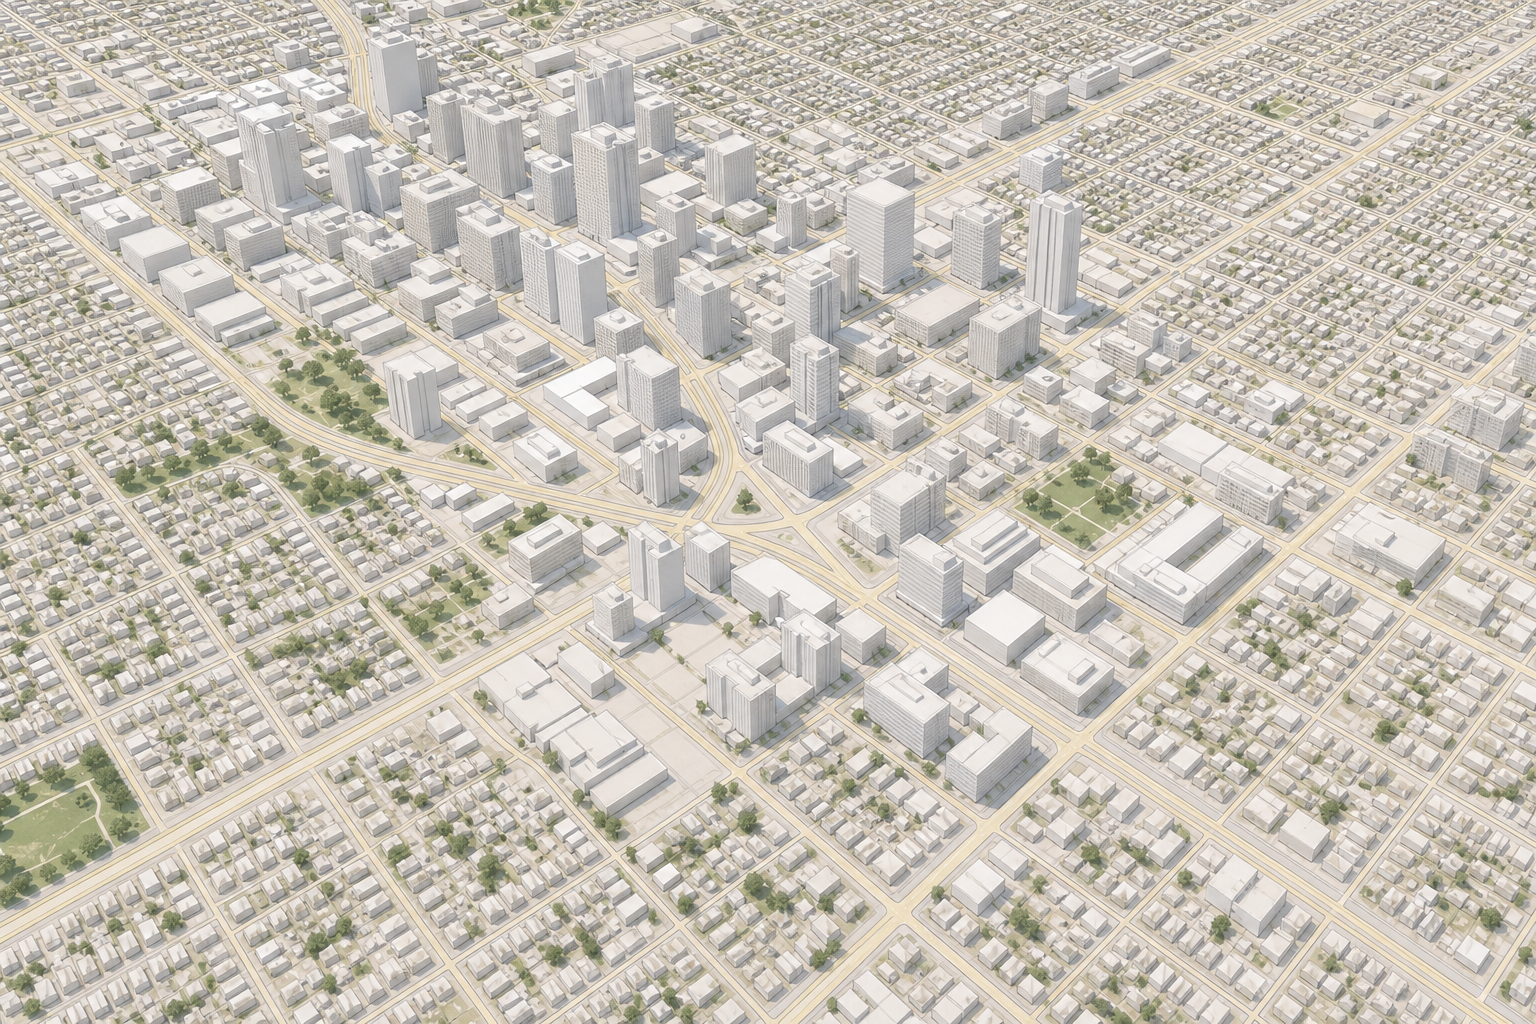
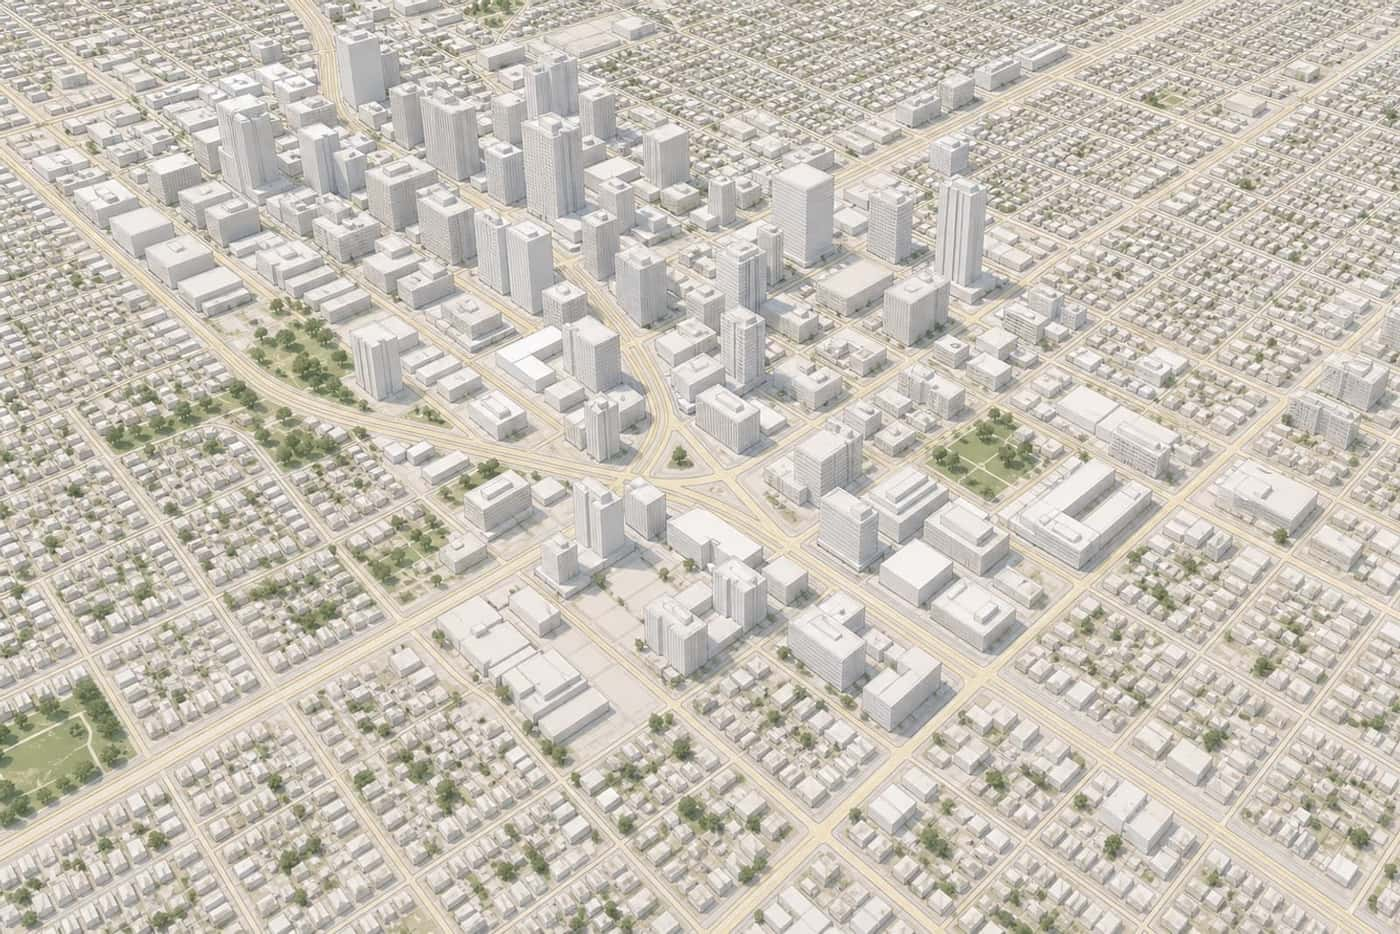
Add Vercel SPA config, page metadata, and optimized landing images
- vercel.json: SPA rewrite to index.html, immutable caching for hashed
  assets, no-cache for index.html, and baseline security headers (FE-1)
- Fix 'FreshFoward' title typo and add meta description, theme-color,
  favicon, apple-touch-icon, and Open Graph/Twitter tags (FE-8, FE-9)
- Compress how-it-works-map.jpg 3.8MB -> 179KB and mission-section.jpg
  346KB -> 186KB (+165KB webp served via <picture>); add lazy loading,
  async decoding, and explicit dimensions to prevent layout shift (FE-4)
- Delete 2.1MB of unreferenced landing illustration PNGs (FE-5)

diff --git a/src/pages/Landing.tsx b/src/pages/Landing.tsx
@@ -89,7 +89,7 @@ const footerBusinessLinks = [
 type SplitSectionProps = {
   title: string
   body: string[]
-  image: { src: string; alt: string }
+  image: { src: string; webpSrc?: string; alt: string; width?: number; height?: number }
   reverse?: boolean
   className?: string
   cta?: { label: string; to: string; variant?: 'primary' | 'outline' }
@@ -112,11 +112,18 @@ function SplitSection({
           }`}
         >
           <div className="w-full">
-            <img
-              src={image.src}
-              alt={image.alt}
-              className="aspect-[5/4] w-full object-cover sm:min-h-[20rem] lg:min-h-[28rem]"
-            />
+            <picture>
+              {image.webpSrc && <source srcSet={image.webpSrc} type="image/webp" />}
+              <img
+                src={image.src}
+                alt={image.alt}
+                loading="lazy"
+                decoding="async"
+                width={image.width}
+                height={image.height}
+                className="aspect-[5/4] w-full object-cover sm:min-h-[20rem] lg:min-h-[28rem]"
+              />
+            </picture>
           </div>
 
           <div className="flex flex-col justify-center">
@@ -167,7 +174,10 @@ const missionSection = {
   reverse: true,
   image: {
     src: '/mission-section.jpg',
+    webpSrc: '/mission-section.webp',
     alt: 'Prepared meals packaged in a restaurant kitchen',
+    width: 1200,
+    height: 900,
   },
 }
 
@@ -296,7 +306,15 @@ export default function Landing() {
 
       <section className="relative isolate overflow-hidden py-16 sm:min-h-[36rem] sm:py-20">
         <div aria-hidden className="how-it-works-map-wrap">
-          <img src={howItWorksMapImage} alt="" className="how-it-works-map-image" />
+          <img
+            src={howItWorksMapImage}
+            alt=""
+            loading="lazy"
+            decoding="async"
+            width={1400}
+            height={933}
+            className="how-it-works-map-image"
+          />
         </div>
         <div
           aria-hidden

diff --git a/index.html b/index.html
@@ -3,7 +3,27 @@
   <head>
     <meta charset="UTF-8" />
     <meta name="viewport" content="width=device-width, initial-scale=1.0" />
-    <title>FreshFoward</title>
+    <title>FreshForward — Surplus food from local restaurants</title>
+    <meta
+      name="description"
+      content="Buy great food from local restaurants at a discount, and help cut food waste. Browse surplus meals near you and pick up the same day."
+    />
+    <meta name="theme-color" content="#059669" />
+
+    <link rel="icon" href="/favicon.ico" sizes="any" />
+    <link rel="apple-touch-icon" href="/apple-touch-icon.png" />
+
+    <!-- og:image/og:url must be absolute URLs; update the domain once the production domain is final. -->
+    <meta property="og:type" content="website" />
+    <meta property="og:title" content="FreshForward — Surplus food from local restaurants" />
+    <meta
+      property="og:description"
+      content="Buy great food from local restaurants at a discount, and help cut food waste."
+    />
+    <meta property="og:image" content="https://freshforward-frontend.vercel.app/og-image.jpg" />
+    <meta property="og:url" content="https://freshforward-frontend.vercel.app" />
+    <meta name="twitter:card" content="summary_large_image" />
+
     <link rel="preconnect" href="https://fonts.googleapis.com" />
     <link rel="preconnect" href="https://fonts.gstatic.com" crossorigin />
     <link
